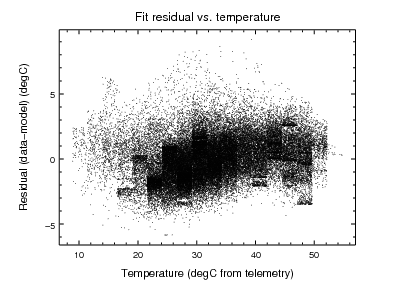
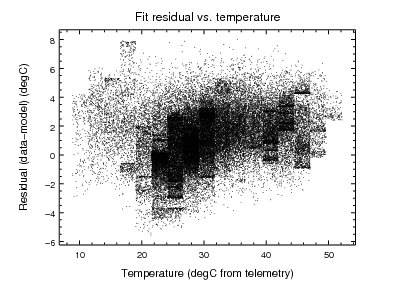
Updated model calibration to reflect FA6 heater turn-off on 2009:226.
Following the FA6 heater turn-off on 2009:226 the observed PSMC 1PDEAAT
temperatures have been approximately 2 degC lower than the model
prediction.  This calibration update introduces a single offset of
1.7 deg in the effective zero-power settling temperatures at all pitch
values for HRC and ACIS SIM positions.  This corrects model predictions
for post-FA6 turn-off to have a zero median.  At a point when sufficient
data are available (about 6 months after turn-off) a full recalibration
will be considered.

Also in this release:

- Updated the model validation quantile limits to more reasonable values.
- Improved the calibration update procedure in the documentation.
- Changed psmc_calibrate.py "datestop" command line arg so that it
  defaults to the current date minus 7 days.

diff --git a/predict/characteristics.py b/predict/characteristics.py
@@ -1,4 +1,4 @@
-VERSION = '0.03'
+VERSION = '0.04'
 
 # PSMC average power for each state (fep_count, vid_board, clocking)
 # [fep_count, vid_board, clocking, power_avg]
@@ -37,17 +37,18 @@ T_pin_margin = 4.5
 
 # Based on levmar fit of both 1pdeaat and 1pin1at
 # for 180 days before 2009:151:23:58:53.816
-model_par = dict(acis150 =  28.948,
-                 acis50  =  55.302,
-                 acis90  =  27.870,
+offset = 1.7
+model_par = dict(acis150 =  28.948-offset,
+                 acis50  =  55.302-offset,
+                 acis90  =  27.870-offset,
                  c1      =  97.303,
                  c2      =  12.999,
-                 hrci150 =  37.773,
-                 hrci50  =  40.637,
-                 hrci90  =  27.804,
-                 hrcs150 =  40.054,
-                 hrcs50  =  34.032,
-                 hrcs90  =  30.542,
+                 hrci150 =  37.773-offset,
+                 hrci50  =  40.637-offset,
+                 hrci90  =  27.804-offset,
+                 hrcs150 =  40.054-offset,
+                 hrcs50  =  34.032-offset,
+                 hrcs90  =  30.542-offset,
                  u01     =   5.404,
                  u01quad =  -0.438,
                  u12     =   8.404,
@@ -58,8 +59,8 @@ model_par = dict(acis150 =  28.948,
 validation_limits = { '1PDEAAT' :  ((1,5.5),
                                    (50,1.0),
                                    (99, 5.5)),
-                      '1PIN1AT' :  ((1, 3.5),
-                                   (99, 3.5)),
-                      'AOSARES1' : ((1, 2.0),),
+                      '1PIN1AT' :  ((1, 5.5),
+                                   (99, 5.5)),
+                      'AOSARES1' : ((1, 2.5),),
                       'POWER':     ((1, 8.0),),
                       'TSCPOS' :   ((1, 2.0 ),) }

diff --git a/predict/psmc_calibrate.py b/predict/psmc_calibrate.py
@@ -294,7 +294,7 @@ def killall():
 def get_options():
     parser = optparse.OptionParser()
     parser.add_option("--datestop",
-                      default='2009-06-01T00:00:00',
+                      default=None,
                       help="Stop date for calibration dataset")
     parser.add_option("--ndays-acis",
                       type='int',
@@ -320,11 +320,18 @@ def get_options():
 def main():
     opt, args = get_options()
 
+    if opt.datestop is None:
+        opt.datestop = Chandra.Time.DateTime(time.time()-7*86400, format='unix').date
+        print 'Datestop =', opt.datestop
+
     # Fit HRC-I and HRC-S (typically for a longer period such as 365 days)
     model_par = characteristics.model_par
     tlm, states, statevals = get_tlm_states(opt.datestop, opt.ndays_hrc)
     dea, pin, dat1, dat2 = init_models_data(tlm, states, model_par)
-    
+
+    print 'Original model pars:'
+    print_model_par()
+
     for detector in ('hrci', 'hrcs'):
         for pitch in ('50', '90', '150'):
             thaw(getattr(dea, detector + pitch))

diff --git a/predict/docs/index.rst b/predict/docs/index.rst
@@ -77,9 +77,27 @@ psmc_calibrate.py
 ========================
 Calibrate PSMC model coefficients using telemetry from specified time range.
 
+::
+
+  Usage: psmc_calibrate.py [options]
+
+  Options:
+    -h, --help            show this help message and exit
+    --datestop=DATESTOP   Stop date for calibration dataset
+    --ndays-acis=NDAYS_ACIS
+                          Number of days for ACIS
+    --ndays-hrc=NDAYS_HRC
+                          Number of days for HRC
+    --figroot=FIGROOT     Figure root name
+    --fit                 Do fitting
+    --no-fit              Do not do fitting
+
 Current calibration plots
 ---------------------------
 **Fit and residuals (data-model)**
+
+Note: the drop around T=3.67e8 is believed to be due to turning off the FA6 heater 
+near 2009:227.
 
 .. image:: ../fit_resid.png
 
@@ -104,9 +122,11 @@ Update procedure
 - Use the following commands from the shell to generate a new set of PSMC model
   parameters::
 
+    svn checkout file:///proj/sot/ska/svn/psmc/trunk/predict predict
+    cd predict
     ciao
     setenv PYTHONPATH /home/aldcroft/ciaopy/lib/python
-    psmc_calibrate.py --stopdate <stopdate> | tee psmc_calibrate.log
+    python psmc_calibrate.py | tee psmc_calibrate.log
 
 - Compare parameters to existing values.  Watch for outliers and examine
   fit_pitch_simpos.png for coverage.  Note that this plot shows coverage
@@ -114,14 +134,14 @@ Update procedure
   interval (typically 360 days).
 
 - Update the model_par definition from screen output or ``psmc_calibrate.log`` 
-  and update ``VERSION`` in characteristics.py.
+  and update the calibration ``VERSION`` in characteristics.py.
 
-- Update ``VERSION`` in ``Makefile``.
+- Update project ``VERSION`` in ``Makefile``.
 
 - Test the new characteristics file by running::
 
     /proj/sot/ska/bin/psmc_check --oflsdir <latest_ofls_dir> --outdir out_release
-    ./psmc_check.py --oflsdir <latest_ofls_dir> --outdir out_pre
+    python psmc_check.py --oflsdir <latest_ofls_dir> --outdir out_pre
     ./scs107_settling.py
 
   Ensure that results are sensible and that the ``VERSION`` matches expectation.
